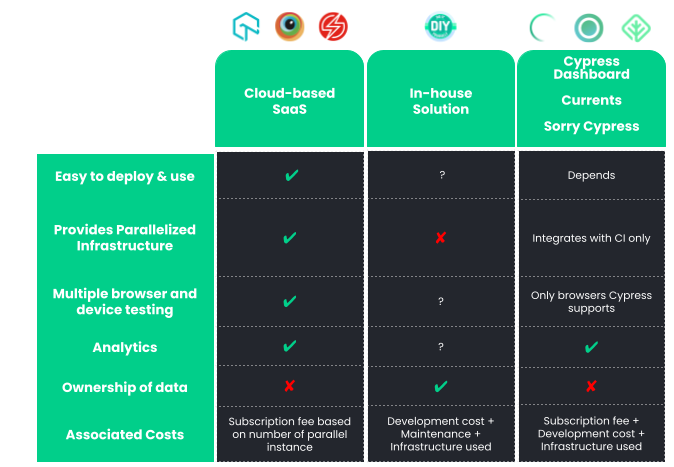
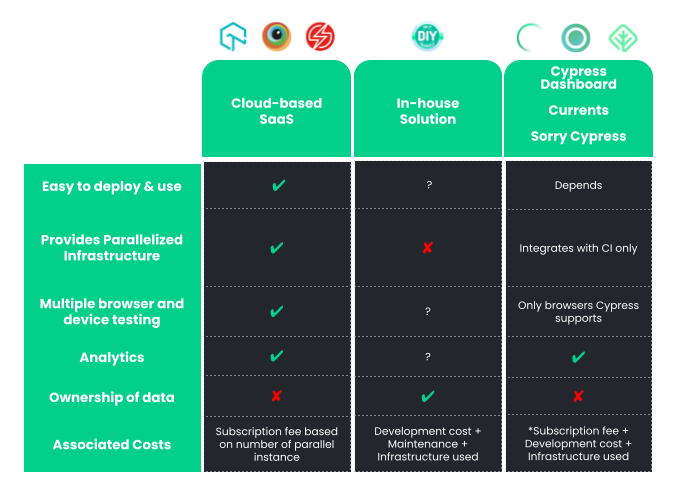
fix inconsistent color and size

diff --git a/index.html b/index.html
@@ -670,6 +670,7 @@
             class="lazy"
             data-src="images/diagrams/problem_too_long.png"
             alt="testing too long"
+            width="650"
           />
           <p>
             Long test-suite execution times can pose a serious problem for
@@ -694,6 +695,7 @@
             class="lazy"
             data-src="images/diagrams/bug_cost_graph.png"
             alt="bug cost graph"
+            width="650"
           />
           <p>
             The cost of software bug removal tends to vary depending on when the
@@ -729,7 +731,8 @@
             class="lazy"
             data-src="images/diagrams/drone_on.png"
             alt="drone on"
-            height="500"
+            
+            width="500"
           />
           <p>
             Drone-On is an autonomous delivery platform on the long and winding
@@ -806,6 +809,7 @@
             class="lazy"
             data-src="images/diagrams/sequential_execution.png"
             alt="sequential tests"
+            width="600"
           />
           <p>
             Local parallelization would be simple to achieve in certain testing
@@ -855,6 +859,7 @@
             class="lazy"
             data-src="images/diagrams/parallel_execution.png"
             alt="parallel tests"
+            width="575"
           />
           <p>
             The primary advantage of multi-node parallelization is its capacity
@@ -1140,6 +1145,7 @@
             class="lazy"
             data-src="images/diagrams/split_by_file_count.png"
             alt="split by file count"
+            width="800"
           />
 
           <h3 id="section-7-2">7.2 Stage 2: Allocate by Timing Data</h3>
@@ -1170,6 +1176,7 @@
             class="lazy"
             data-src="images/diagrams/split_by_timing_data.png"
             alt="split by timing data"
+            width="600"
           />
 
           <p>
